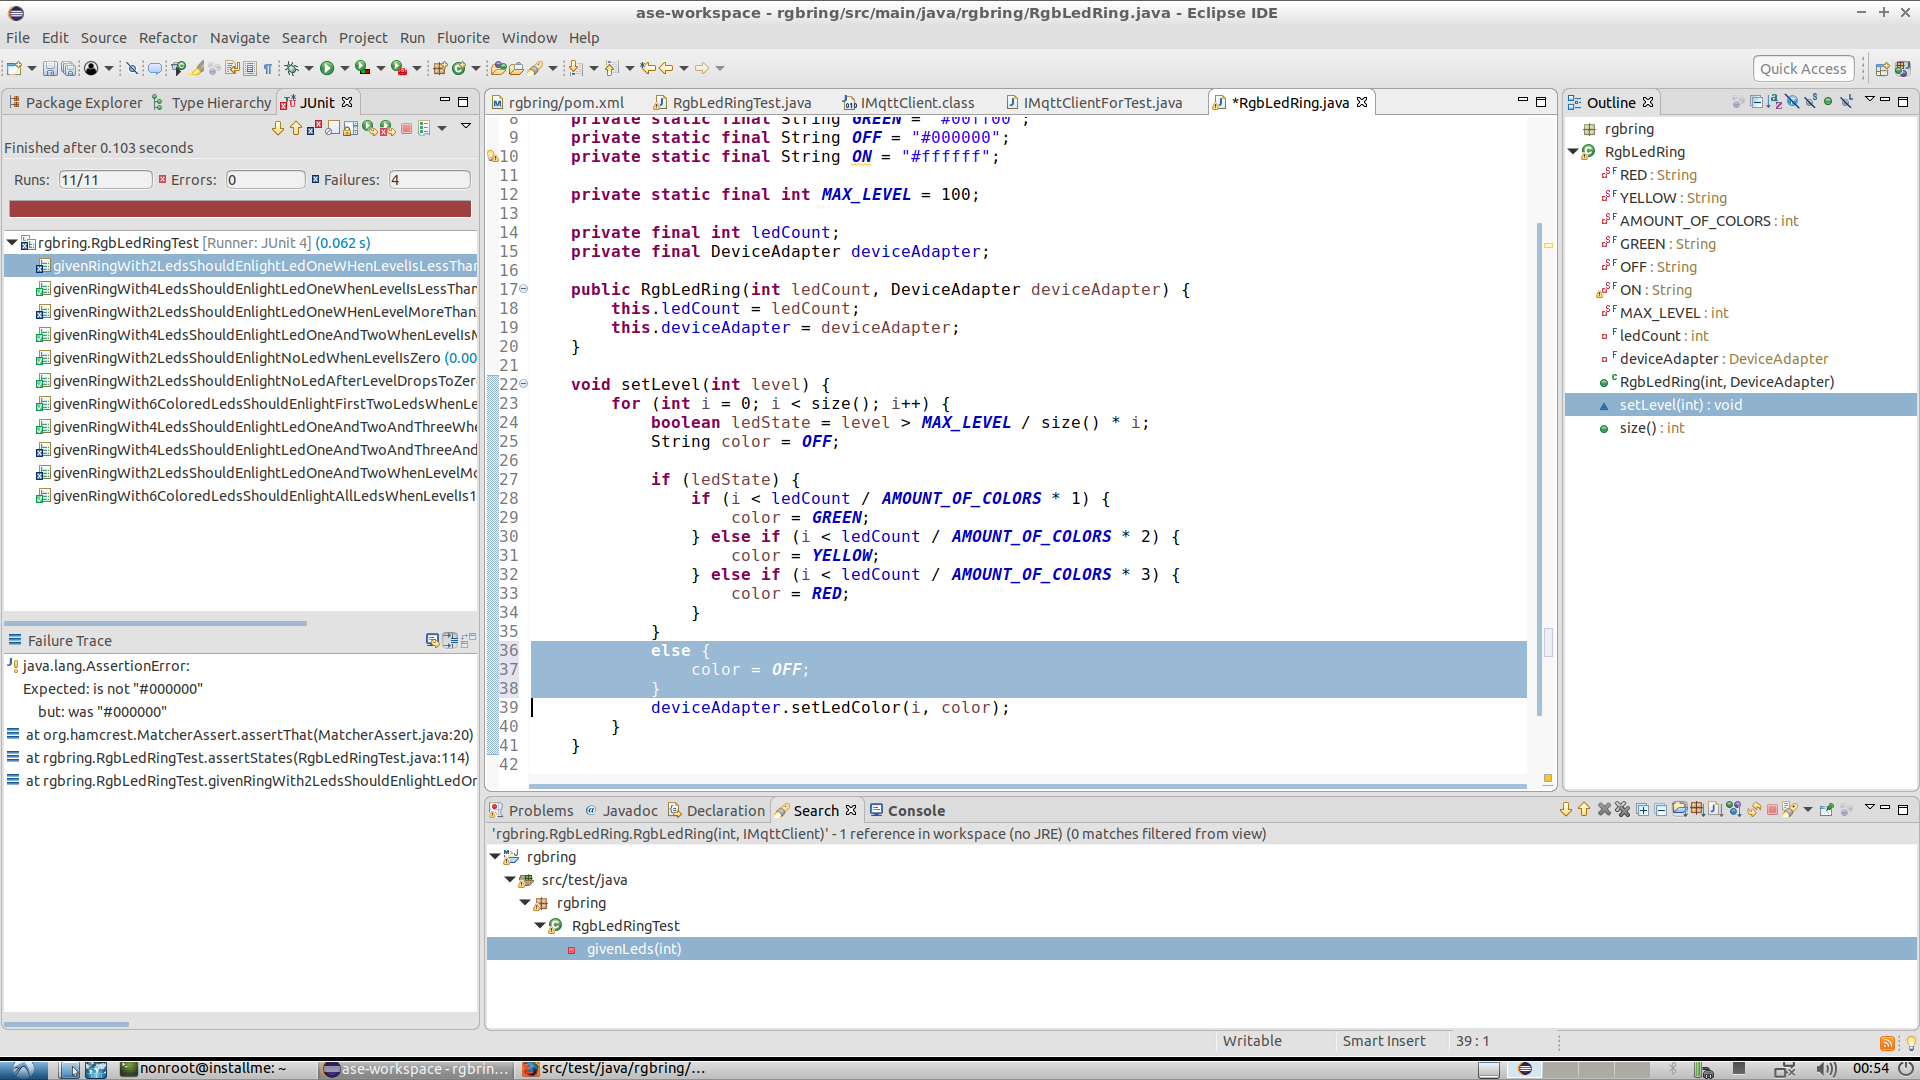
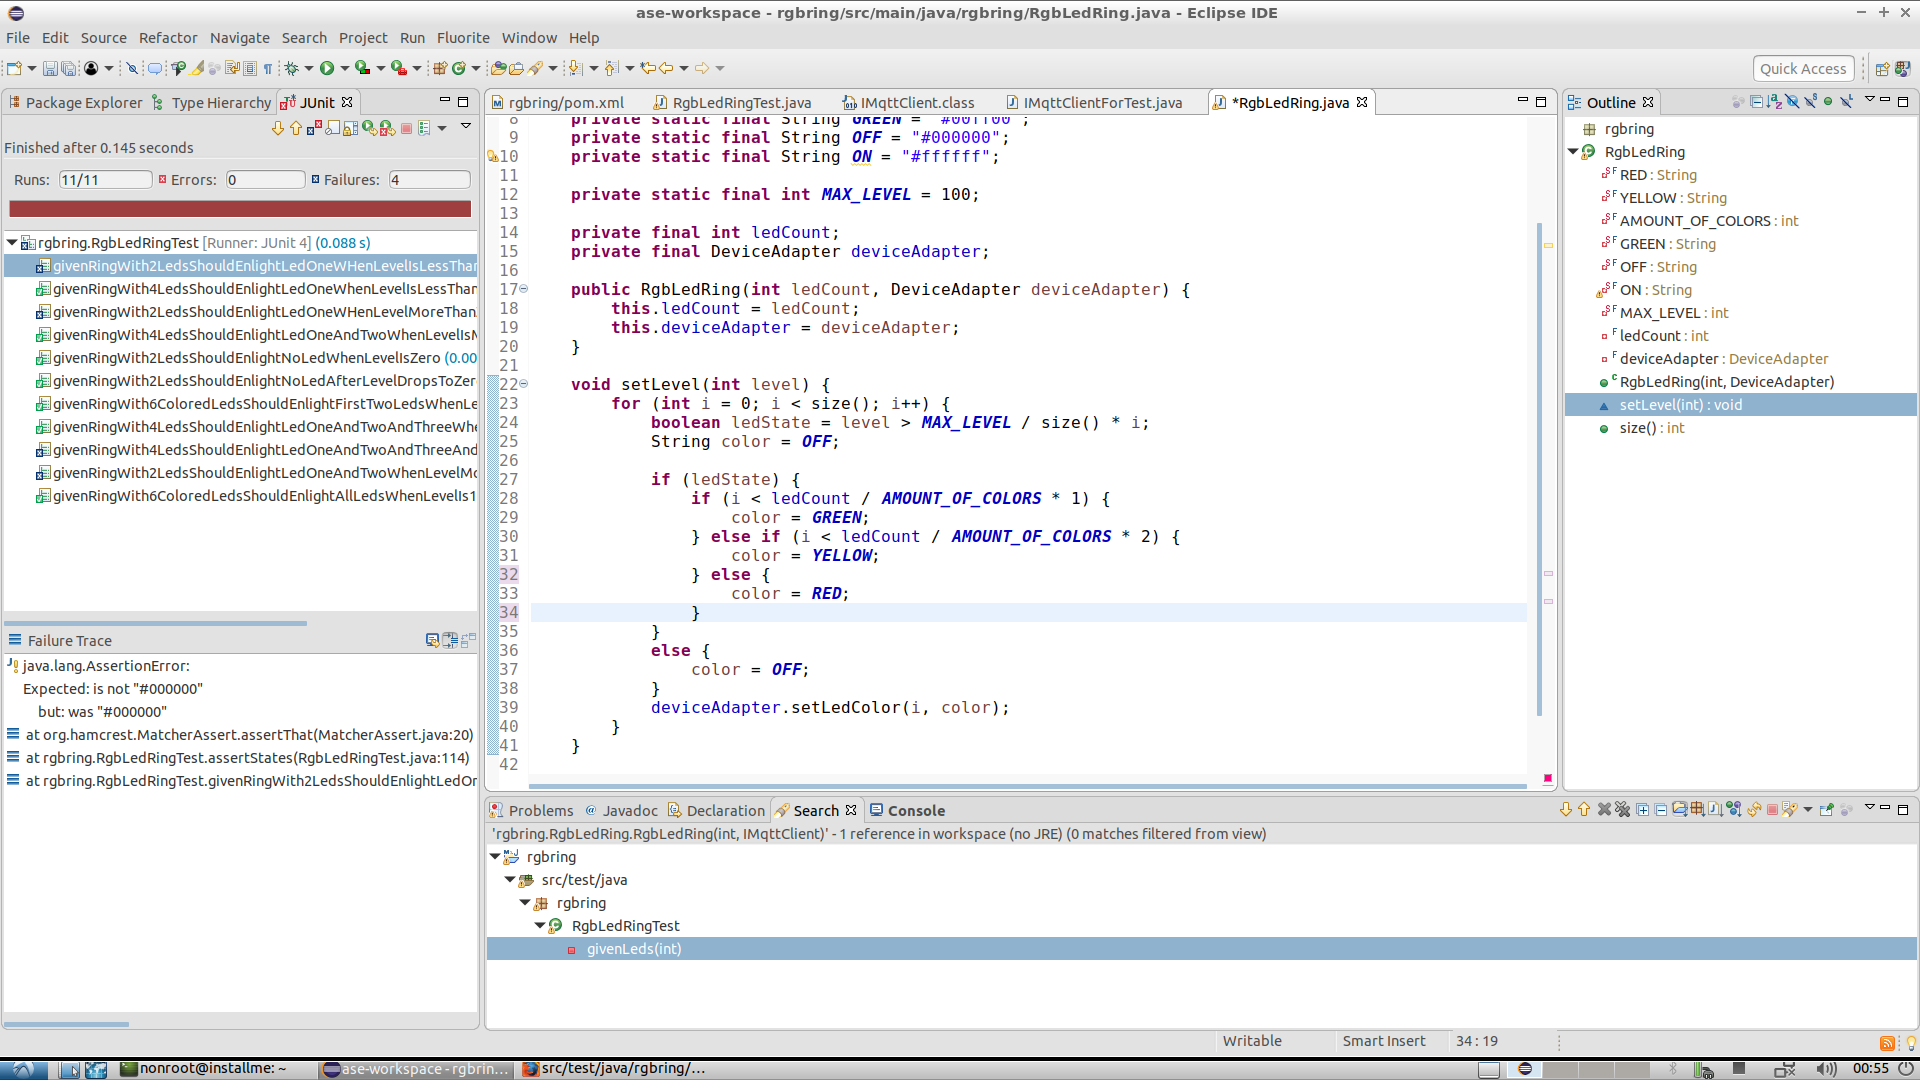
autocommit on change

Changed region(s): [[0.25, 0.5194, 0.8125, 0.6722], [0.4375, 0.5194, 0.5938, 0.55]]

diff --git a/src/main/java/rgbring/RgbLedRing.java b/src/main/java/rgbring/RgbLedRing.java
@@ -29,9 +29,9 @@ public class RgbLedRing {
 					color = GREEN;
 				} else if (i < ledCount / AMOUNT_OF_COLORS * 2) {
 					color = YELLOW;
-				} else if (i < ledCount / AMOUNT_OF_COLORS * 3) {
+				} else {
 					color = RED;
-				}
+				} 
 			} 
 			else {
 				color = OFF;
